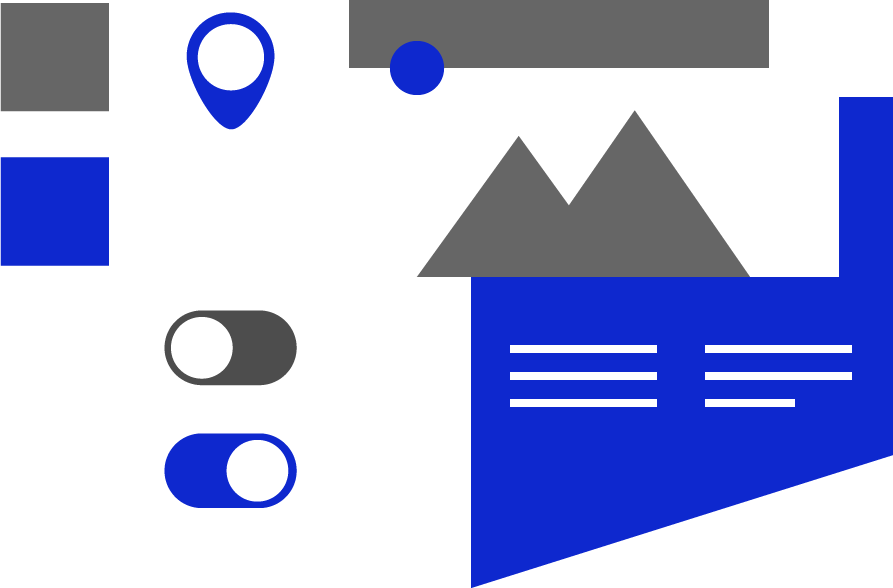
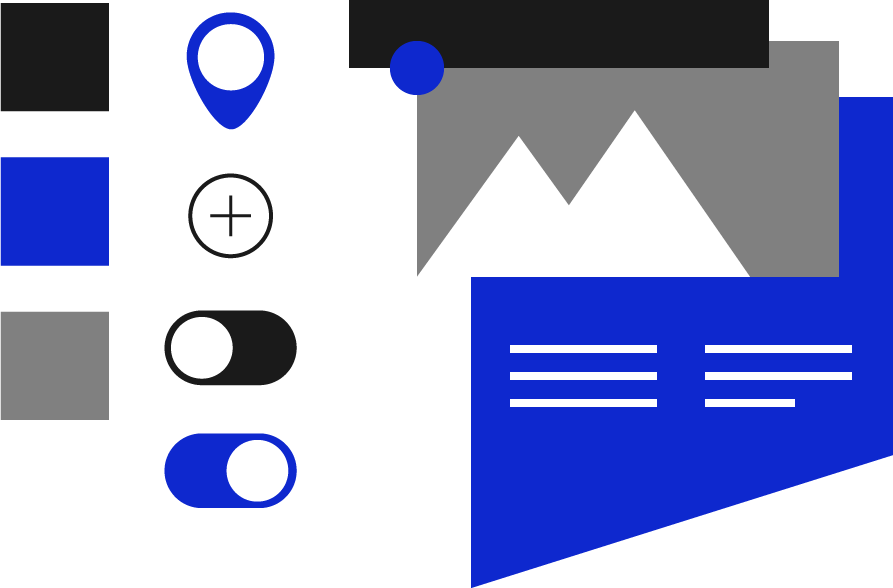
Sorting about page and form design

diff --git a/src/layouts/default.html b/src/layouts/default.html
@@ -15,7 +15,7 @@
 
     <div class="app">
     
-    {{#unlesspage 'work'}}
+    {{#unlesspage 'about'}}
       <header class="head bg-gray" >
         <div class="grid-container">
           <div class="grid-x align-middle align-justify">
@@ -49,8 +49,8 @@
       </header>
       {{/unlesspage}}
 
-      {{#ifpage 'work'}}
-        <header class="head head--work" >
+      {{#ifpage 'about'}}
+        <header class="head head--about" >
           <div class="grid-container">
             <div class="grid-x align-middle align-justify">
               <div class="small-4 medium-2 large-1 cell">
@@ -61,20 +61,18 @@
                   <path d="M263.4,11.5c0,0,121.5,1328.5,336.8,1324.1l-254.5,0C132.3,1327.2,12,11.5,12,11.5H263.4z"/>
                 </svg>
               </div>
-              <div class="small-8 medium-10 large-11 cell">
+              <div class="small-8 medium-7 large-9 cell">
                 <ul class="menu menu--work align-right">
                   <li><a href="index.html">Home</a></li>
                   <li><a href="#">About</a></li>
                 </ul>
               </div>
               <div class="hide-for-small-only medium-1 cell text-right">
-                <a href="mailto:robawills@me.com">
                   <button class="round button button--round button--round--work">
                       <svg class="email-icon" xmlns="http://www.w3.org/2000/svg" width="15" height="15" viewBox="0 0 828.4 828.4">
                         <path class="st0" d="M808.3 8.9c10.1 7.3 14.2 17.1 12.3 29.3l-117 702.1c-1.5 8.8-6.4 15.7-14.6 20.6-4.3 2.4-9 3.7-14.2 3.7-3.4 0-7-.8-11-2.3L422.9 664 286.7 813.4c-5.5 6.4-12.6 9.6-21.5 9.6-4.3 0-7.8-.6-10.5-1.8-5.8-2.1-10.4-5.7-13.7-10.7-3.4-5-5-10.6-5-16.7V587.2L20.3 498.9C9 494.7 2.9 486.3 2 473.8c-.9-11.9 4-20.9 14.6-27L777.2 8c10.6-6.4 21-6.1 31.1.9zM651.9 694.1L753 89.4l-655.5 378L251.1 530l394.5-292.1-218.5 364.3 224.8 91.9z"/>
                       </svg>
                   </button>
-                </a>
               </div>
             </div>
           </div>
@@ -88,11 +86,11 @@
      
       
       
-      <footer class="footer">
+      <footer class="footer" style="background: url(assets/img/home-hero.svg) no-repeat center center; -webkit-background-size: cover; -moz-background-size: cover; -o-background-size: cover; background-size: cover;">
           <div class="grid-container">
-            <div class="grid-x align-justify">
-              <div class="cell medium-6">
-                <h3 class="bold letter-spacing">Get in touch</h3>
+            <div class="grid-x align-center">
+              <div class="cell medium-6 ">
+                <h2 class="bold letter-spacing">Get in touch</h2>
                 <form class="footer__form">
                     <label>
                       <input type="text" placeholder="Name*">
@@ -104,7 +102,7 @@
                       <input type="email" placeholder="Message">
                     </label>
                 </form>
-                <button class="button">
+                <button class="button button--footer">
                   Send
                 </button>
               </div>

diff --git a/src/pages/about.html b/src/pages/about.html
@@ -4,10 +4,10 @@
         <div class="project__hero">
             <div class="grid-container">
                 <div class="grid-x grid-margin-x align-middle">
-                    <div class="small-12 medium-9 medium-offset-1 cell">
+                    <div class="small-12 medium-11 cell">
                         <div class="project__info">
-                            <h2 class="project__title bold letter-spacing">About</h2>
-                            <p class="project__copy">
+                            <h2 class="project__title bold letter-spacing text-dark">About</h2>
+                            <p class="project__copy text-dark">
                                 As a modern house builder looking to create beautiful modern homes, Metis Homes wanted their website to reflect the quality and detail of the properties they build. They felt their website was not portraying and showcase the stunning homes they build. With poor images sizes and no flexibility it was time to bring their website up to date.
                             </p>
                             <button class="button button--about">Download my CV</button>
@@ -15,24 +15,24 @@
                     </div>
                 </div>  
                 <div class="grid-x grid-margin-x">
-                    <div class="small-12 medium-3 medium-offset-1 cell">
+                    <div class="small-12 medium-4 cell">
                         <div class="project__info">
-                            <h3 class="light">UX Design</h3>
-                            <h2 class="bold">User journeys that flow.</h2>
+                            <h3 class="light text-dark" >UX Design</h3>
+                            <h2 class="bold text-dark">User journeys that flow.</h2>
                             <img class="project__about-img" src="../assets/img/ux.png">
                         </div>
                     </div>
-                    <div class="small-12 medium-3 cell">
+                    <div class="small-12 medium-4 cell">
                         <div class="project__info">
-                            <h3 class="light">UI Design</h3>
-                            <h2 class="bold">Interfaces that feel right.</h2>
+                            <h3 class="light text-dark">UI Design</h3>
+                            <h2 class="bold text-dark">Interfaces that feel right.</h2>
                             <img class="project__about-img" src="../assets/img/ui.png">
                         </div>
                     </div>
-                    <div class="small-12 medium-3 cell">
+                    <div class="small-12 medium-4 cell">
                         <div class="project__info">
-                            <h3 class="light">Development</h3>
-                            <h2 class="bold">Tailored code.</h2>
+                            <h3 class="light text-dark">Development</h3>
+                            <h2 class="bold text-dark">Tailored code.</h2>
                             <img class="project__about-img project__about-img--dev" src="../assets/img/code.png">
                         </div>
                     </div>

diff --git a/src/pages/index.html b/src/pages/index.html
@@ -7,7 +7,7 @@
                         <div class="small-12 large-8 cell home" > 
                             <div id="white" data-color="#fff">
                                 <h1 class="bold letter-spacing home__title">Rob Wills</h1>
-                                <h2>Problem solver specialised in UI & UX, dedicated to find the perfect balance between design and logic.</h2>
+                                <h2 data-color-group="black">Problem solver specialised in UI & UX, dedicated to find the perfect balance between design and logic.</h2>
                             </div>
                         </div>
                     </div>
@@ -129,40 +129,7 @@
                     </div>
                 </div>
         </section>
-        <!-- <section data-color-group="yellow">
-            <div class="grid-container">
-                <div class="grid-x grid-margin-x">
-                    <div class="small-12 medium-4 cell">
-                        <div class="services__cell">
-                            <h3 class="light">UX Design</h3>
-                            <h4 class="bold letter-spacing">User journeys<br> that flow.</h4>
-                            <div class="services__img">
-                                <img src="../assets/img/ux.svg"> 
-                            </div>
-                        </div>
-                    </div>
-                    <div class="small-12 medium-4 cell">
-                        <div class="services__cell">
-                            <h3 class="light">UI Design</h3>
-                            <h4 class="bold letter-spacing">Interfaces that<br> feel right.</h4>
-                            <div class="services__img">
-                                <img src="../assets/img/ui.svg"> 
-                            </div>
-                        </div>
-                    </div>
-                    <div class="small-12 medium-4 cell">
-                        <div class="services__cell">
-                            <h3 class="light">Development</h3>
-                            <h4 class="bold letter-spacing">Tailored<br>Code.</h4>
-                            <div class="services__img">
-                                <img src="../assets/img/code.svg"> 
-                            </div>
-                        </div>
-                    </div>
-                    
-                </div>
-            </div>
-        </section> -->
+        
 
 
 

diff --git a/src/assets/scss/_settings.scss b/src/assets/scss/_settings.scss
@@ -416,10 +416,10 @@ $fieldset-padding: rem-calc(20);
 $fieldset-margin: rem-calc(18 0);
 $legend-padding: rem-calc(0 3);
 $form-spacing: rem-calc(16);
-$helptext-color: $black;
+$helptext-color: $white;
 $helptext-font-size: rem-calc(13);
 $helptext-font-style: italic;
-$input-prefix-color: $black;
+$input-prefix-color: $white;
 $input-prefix-background: $light-gray;
 $input-prefix-border: 1px solid $medium-gray;
 $input-prefix-padding: 1rem;
@@ -430,8 +430,8 @@ $form-label-line-height: 1.8;
 $select-background: none;
 $select-triangle-color: $dark-gray;
 $select-radius: $global-radius;
-$input-color: $black;
-$input-placeholder-color: $dark-gray;
+$input-color: $white;
+$input-placeholder-color: $white;
 $input-font-family: inherit;
 $input-font-size: rem-calc(16);
 $input-font-weight: $global-weight-normal;

diff --git a/src/assets/scss/components/_button.scss b/src/assets/scss/components/_button.scss
@@ -1,4 +1,5 @@
 .button {
+    border-radius: rem-calc(2px); 
 
     &--round {
         border-radius: 50%;
@@ -17,12 +18,11 @@
     }
 
     &--about {
-        background-color: white;
-        color:black;
+        background-color:$black;
+        color:white;
         margin: 0 0 3rem;
         text-transform: uppercase;
         font-size: 0.75rem;
-        border-radius: rem-calc(2px); 
 
         &:hover {
             background-color: $blue;
@@ -50,8 +50,16 @@
         color: $blue;
         transition: all 0.4s ease;
     }
-    
 
+    &--footer {
+        background-color: $white;
+        color: $dark-gray;
+
+        &:hover {
+            background-color: $blue;
+            color: #fff;
+        }
+    }
 }
 
 

diff --git a/src/assets/scss/components/core/_foot.scss b/src/assets/scss/components/core/_foot.scss
@@ -6,12 +6,15 @@
     background-color: $black;
     margin-top: 5rem;
     padding: 8rem 0 5rem;
+    color: #fff;
+    text-align: center;
     &__form {
         margin: 1.5rem 0 2rem;
+        
     }
     &__copy {
         font-size: 0.75rem;
-        color: $medium-gray;
+        color: $white;
         margin-top: 5rem;
     }
 }

diff --git a/src/assets/scss/elements/_forms.scss b/src/assets/scss/elements/_forms.scss
@@ -4,11 +4,11 @@
 
 .footer input {
     border: none;
-    border-bottom: 1px solid $medium-gray;
+    border-bottom: 1px solid $white;
     box-shadow: none;
-    color: $medium-gray;
-
+    color: $white;
 }
+
 
 .footer input:focus {
     border: none;

diff --git a/src/assets/scss/components/core/_head.scss b/src/assets/scss/components/core/_head.scss
@@ -29,9 +29,9 @@ $scrollhide-nav-transition-speed: 0.8s;
         fill: $blue;
     }
 
-    &--work {
-        background-color: rgba(255, 255, 255, 0.9);
-    }
+    // &--about {
+    //     background-color: #e5e3d7;
+    // }
 }
 
 .head.active {

diff --git a/src/assets/scss/overrides/_visibility.scss b/src/assets/scss/overrides/_visibility.scss
@@ -36,7 +36,7 @@ body {
     }
 
     &.about {
-        background-color: #000;
+        background-color: #e0dfda;
     }
 
 }

diff --git a/src/assets/scss/helpers/_type.scss b/src/assets/scss/helpers/_type.scss
@@ -9,3 +9,7 @@
 .letter-spacing {
     letter-spacing: 0.12rem;
 }
+
+.text-dark {
+    color: $black;
+}
